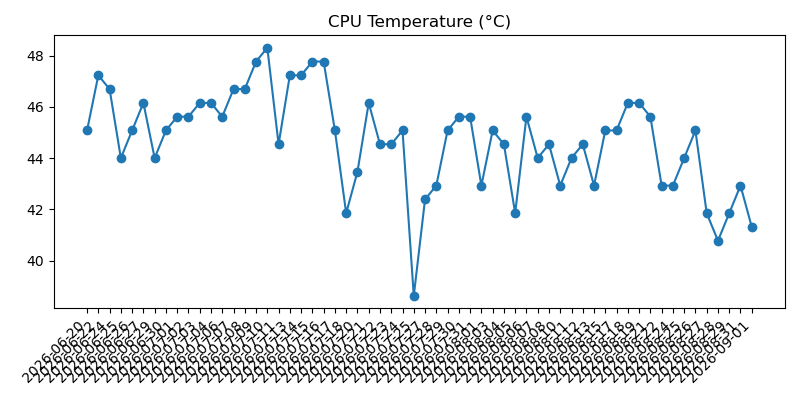
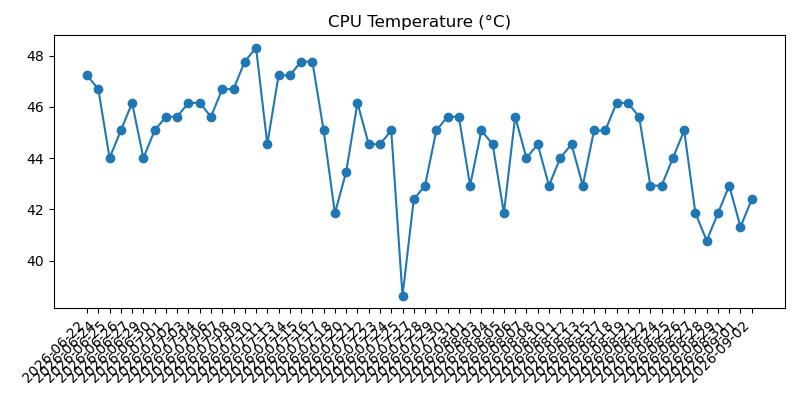
Add daily health and weather snapshot

Changed region(s): [[0.0938, 0.09, 0.9688, 0.75], [0.0938, 0.81, 0.9375, 0.87]]

diff --git a/2026-09.md b/2026-09.md
@@ -34,3 +34,37 @@
 - Overall: Good
 - Warning: None
 
+## 2026-09-02 11:43:38
+
+### Machine
+- Uptime: up 20 hours, 52 minutes
+- CPU load (1m, 5m, 15m): 0.00, 0.00, 0.00
+- RAM used: 256 MB / 920 MB (27.8%)
+- Disk used (/): 4.1 GB / 28.8 GB (14.1%)
+- Free disk space (/): 23.5 GB
+- CPU temp: 42.4°C
+- Voltage / throttling: OK
+
+### Reachability
+- Internet check (1.1.1.1): Reachable (4.0 ms)
+
+### Weather
+- Madrid:
+  - Condition: Despejado
+  - Max temp: 36°C
+  - Min temp: 20°C
+  - Feels like: 27°C
+  - Chance of rain: 0%
+  - Warnings: None reported
+- Barcelona:
+  - Condition: Despejado
+  - Max temp: 31°C
+  - Min temp: 24°C
+  - Feels like: 28°C
+  - Chance of rain: 0%
+  - Warnings: None reported
+
+### Health
+- Overall: Good
+- Warning: None
+
